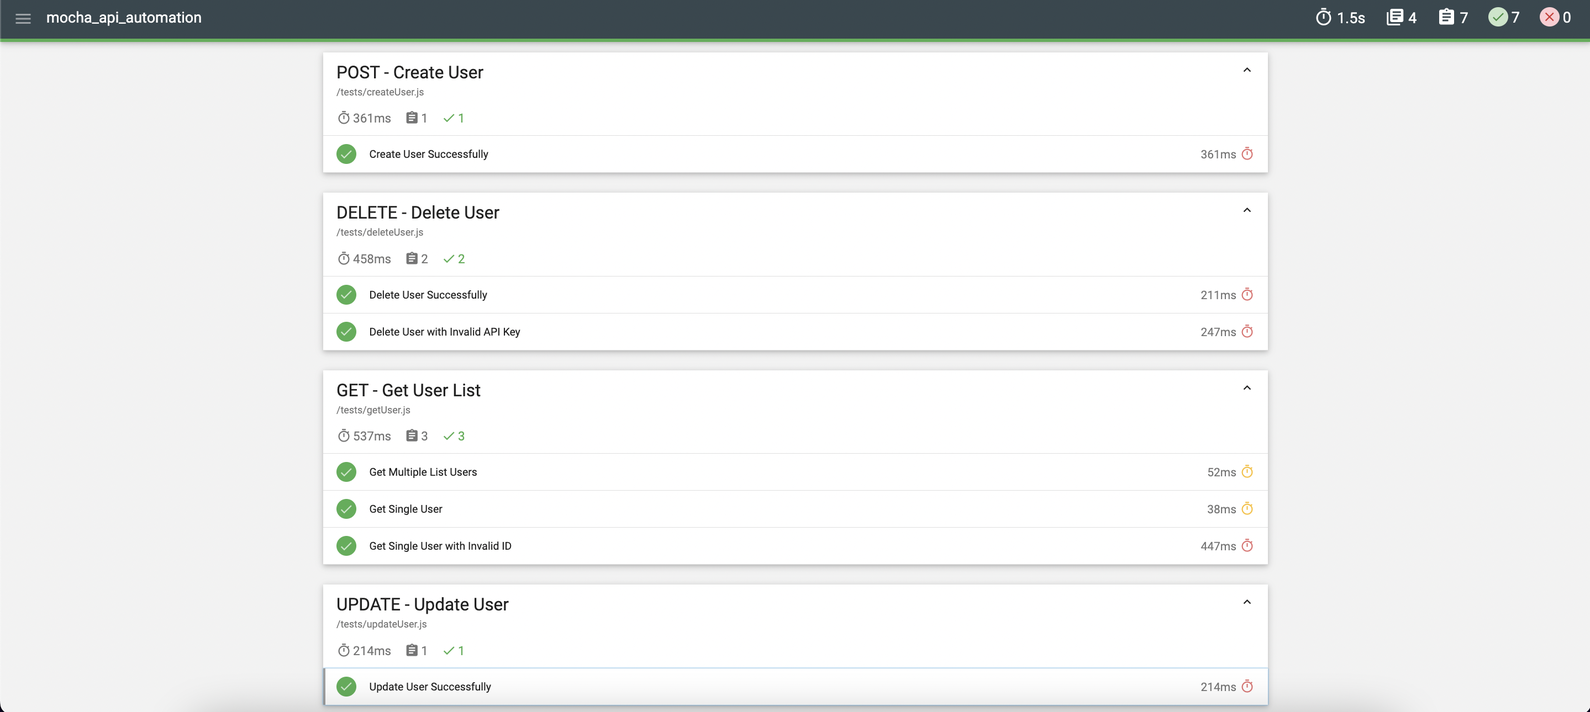
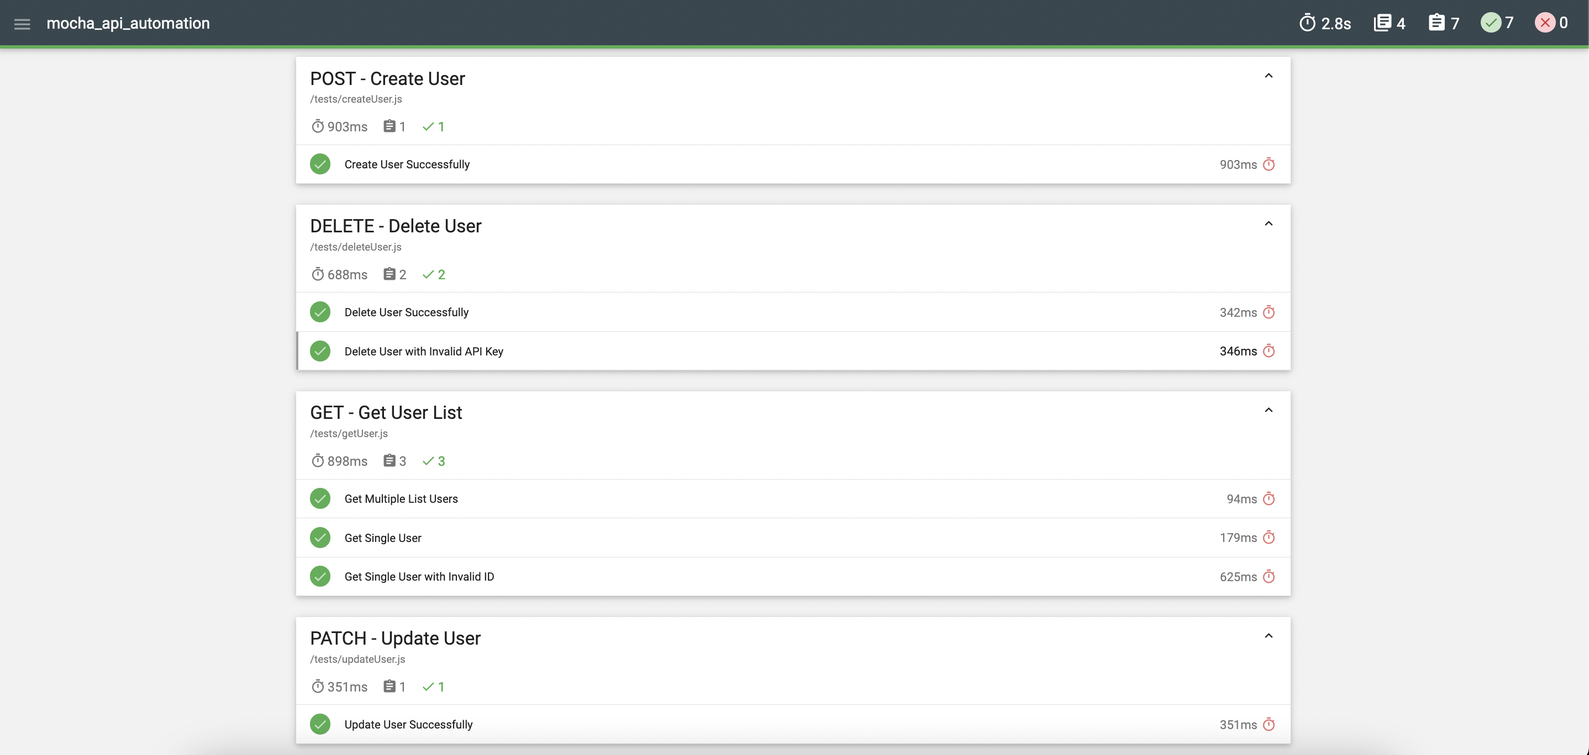
- update API for delete user with invalid API key - update readme - update test report - update package and remove unnecessary details

diff --git a/mochawesome-report/mochawesome.html b/mochawesome-report/mochawesome.html
@@ -1,2 +1,2 @@
 <!doctype html>
-<html lang="en"><head><meta charSet="utf-8"/><meta http-equiv="X-UA-Compatible" content="IE=edge"/><meta name="viewport" content="width=device-width, initial-scale=1"/><title>Mochawesome Report</title><link rel="stylesheet" href="assets/app.css"/></head><body data-raw="{&quot;stats&quot;:{&quot;suites&quot;:4,&quot;tests&quot;:7,&quot;passes&quot;:7,&quot;pending&quot;:0,&quot;failures&quot;:0,&quot;start&quot;:&quot;2025-10-19T15:57:01.951Z&quot;,&quot;end&quot;:&quot;2025-10-19T15:57:03.727Z&quot;,&quot;duration&quot;:1776,&quot;testsRegistered&quot;:7,&quot;passPercent&quot;:100,&quot;pendingPercent&quot;:0,&quot;other&quot;:0,&quot;hasOther&quot;:false,&quot;skipped&quot;:0,&quot;hasSkipped&quot;:false},&quot;results&quot;:[{&quot;uuid&quot;:&quot;c369988c-0455-44b4-a586-014207c7c2b8&quot;,&quot;title&quot;:&quot;&quot;,&quot;fullFile&quot;:&quot;&quot;,&quot;file&quot;:&quot;&quot;,&quot;beforeHooks&quot;:[],&quot;afterHooks&quot;:[],&quot;tests&quot;:[],&quot;suites&quot;:[{&quot;uuid&quot;:&quot;6b47eaae-68be-47e0-a9a2-662c1374efbe&quot;,&quot;title&quot;:&quot;POST - Create User&quot;,&quot;fullFile&quot;:&quot;/Users/elsa.fauzia/Documents/qa_enginner_digial_skola/mocha_api_automation/tests/createUser.js&quot;,&quot;file&quot;:&quot;/tests/createUser.js&quot;,&quot;beforeHooks&quot;:[],&quot;afterHooks&quot;:[],&quot;tests&quot;:[{&quot;title&quot;:&quot;Create User Successfully&quot;,&quot;fullTitle&quot;:&quot;POST - Create User Create User Successfully&quot;,&quot;timedOut&quot;:false,&quot;duration&quot;:342,&quot;state&quot;:&quot;passed&quot;,&quot;speed&quot;:&quot;slow&quot;,&quot;pass&quot;:true,&quot;fail&quot;:false,&quot;pending&quot;:false,&quot;code&quot;:&quot;const requestBody = {\n  name: \&quot;elsa farah\&quot;,\n  job: \&quot;QA\&quot;,\n};\nconst response = await fetch(\&quot;https://reqres.in/api/users\&quot;, {\n  method: \&quot;POST\&quot;,\n  headers: {\n    \&quot;x-api-key\&quot;: \&quot;reqres-free-v1\&quot;,\n    \&quot;Content-Type\&quot;: \&quot;application/json\&quot;,\n  },\n  body: JSON.stringify(requestBody),\n});\nconst responseData = await response.json();\nconsole.log(responseData);\nexpect(response.status).to.equal(201);\nexpect(responseData.name).to.equal(requestBody.name);\nexpect(responseData.job).to.equal(requestBody.job);\nexpect(responseData.id).to.exist;\nexpect(responseData.createdAt).to.not.be.null;&quot;,&quot;err&quot;:{},&quot;uuid&quot;:&quot;b50cb56d-4e17-481c-99c8-d60d1aba2751&quot;,&quot;parentUUID&quot;:&quot;6b47eaae-68be-47e0-a9a2-662c1374efbe&quot;,&quot;isHook&quot;:false,&quot;skipped&quot;:false}],&quot;suites&quot;:[],&quot;passes&quot;:[&quot;b50cb56d-4e17-481c-99c8-d60d1aba2751&quot;],&quot;failures&quot;:[],&quot;pending&quot;:[],&quot;skipped&quot;:[],&quot;duration&quot;:342,&quot;root&quot;:false,&quot;rootEmpty&quot;:false,&quot;_timeout&quot;:2000},{&quot;uuid&quot;:&quot;64b1c316-30df-45d5-8607-9e660ef54049&quot;,&quot;title&quot;:&quot;DELETE - Delete User&quot;,&quot;fullFile&quot;:&quot;/Users/elsa.fauzia/Documents/qa_enginner_digial_skola/mocha_api_automation/tests/deleteUser.js&quot;,&quot;file&quot;:&quot;/tests/deleteUser.js&quot;,&quot;beforeHooks&quot;:[],&quot;afterHooks&quot;:[],&quot;tests&quot;:[{&quot;title&quot;:&quot;Delete User Successfully&quot;,&quot;fullTitle&quot;:&quot;DELETE - Delete User Delete User Successfully&quot;,&quot;timedOut&quot;:false,&quot;duration&quot;:196,&quot;state&quot;:&quot;passed&quot;,&quot;speed&quot;:&quot;slow&quot;,&quot;pass&quot;:true,&quot;fail&quot;:false,&quot;pending&quot;:false,&quot;code&quot;:&quot;const response = await fetch(\&quot;https://reqres.in/api/users/2\&quot;, {\n  method: \&quot;DELETE\&quot;,\n  headers: {\n    \&quot;x-api-key\&quot;: \&quot;reqres-free-v1\&quot;,\n    \&quot;Content-Type\&quot;: \&quot;application/json\&quot;,\n  },\n});\nconsole.log(\&quot;Status Code:\&quot;, response.status);\nexpect(response.status).to.equal(204);&quot;,&quot;err&quot;:{},&quot;uuid&quot;:&quot;9b60c289-9afc-4ce4-a83d-485bc4b73d90&quot;,&quot;parentUUID&quot;:&quot;64b1c316-30df-45d5-8607-9e660ef54049&quot;,&quot;isHook&quot;:false,&quot;skipped&quot;:false},{&quot;title&quot;:&quot;Delete User with Invalid API Key&quot;,&quot;fullTitle&quot;:&quot;DELETE - Delete User Delete User with Invalid API Key&quot;,&quot;timedOut&quot;:false,&quot;duration&quot;:242,&quot;state&quot;:&quot;passed&quot;,&quot;speed&quot;:&quot;slow&quot;,&quot;pass&quot;:true,&quot;fail&quot;:false,&quot;pending&quot;:false,&quot;code&quot;:&quot;const response = await fetch(\&quot;https://reqres.in/api/users/\&quot;, {\n  method: \&quot;DELETE\&quot;,\n  headers: {\n    \&quot;x-api-key\&quot;: \&quot;unkown\&quot;,\n    \&quot;Content-Type\&quot;: \&quot;application/json\&quot;,\n  },\n});\nconsole.log(\&quot;Status Code:\&quot;, response.status);\nexpect(response.status).to.equal(403);&quot;,&quot;err&quot;:{},&quot;uuid&quot;:&quot;36f6f5ad-d35b-4e9e-b531-f2970eda5869&quot;,&quot;parentUUID&quot;:&quot;64b1c316-30df-45d5-8607-9e660ef54049&quot;,&quot;isHook&quot;:false,&quot;skipped&quot;:false}],&quot;suites&quot;:[],&quot;passes&quot;:[&quot;9b60c289-9afc-4ce4-a83d-485bc4b73d90&quot;,&quot;36f6f5ad-d35b-4e9e-b531-f2970eda5869&quot;],&quot;failures&quot;:[],&quot;pending&quot;:[],&quot;skipped&quot;:[],&quot;duration&quot;:438,&quot;root&quot;:false,&quot;rootEmpty&quot;:false,&quot;_timeout&quot;:2000},{&quot;uuid&quot;:&quot;290da177-454f-4dba-8427-4d8b40e79963&quot;,&quot;title&quot;:&quot;GET - Get User List&quot;,&quot;fullFile&quot;:&quot;/Users/elsa.fauzia/Documents/qa_enginner_digial_skola/mocha_api_automation/tests/getUser.js&quot;,&quot;file&quot;:&quot;/tests/getUser.js&quot;,&quot;beforeHooks&quot;:[],&quot;afterHooks&quot;:[],&quot;tests&quot;:[{&quot;title&quot;:&quot;Get Multiple List Users&quot;,&quot;fullTitle&quot;:&quot;GET - Get User List Get Multiple List Users&quot;,&quot;timedOut&quot;:false,&quot;duration&quot;:251,&quot;state&quot;:&quot;passed&quot;,&quot;speed&quot;:&quot;slow&quot;,&quot;pass&quot;:true,&quot;fail&quot;:false,&quot;pending&quot;:false,&quot;code&quot;:&quot;const response = await fetch(\&quot;https://reqres.in/api/users?page=2\&quot;, {\n  headers: {\n    \&quot;x-api-key\&quot;: \&quot;reqres-free-v1\&quot;,\n    \&quot;Content-Type\&quot;: \&quot;application/json\&quot;,\n  },\n});\nconst responseData = await response.json();\nconsole.log(responseData);\nexpect(response.status).to.equal(200);\nexpect(responseData.page).to.equal(2);\nexpect(responseData.per_page).to.equal(6);\nexpect(responseData.total).to.equal(12);\nexpect(responseData.total_pages).to.equal(2);\nresponseData.data.forEach((user) =&gt; {\n  expect(user.id).to.be.a(\&quot;number\&quot;);\n  expect(user.email).to.be.a(\&quot;string\&quot;).and.include(\&quot;@reqres.in\&quot;);\n  expect(user.first_name).to.be.a(\&quot;string\&quot;);\n  expect(user.last_name).to.be.a(\&quot;string\&quot;);\n  expect(user.avatar).to.match(/^https?:\\/\\/[^\\s$.?#].[^\\s]*$/);\n});&quot;,&quot;err&quot;:{},&quot;uuid&quot;:&quot;435b73b2-ac41-4244-867c-e75e31d15866&quot;,&quot;parentUUID&quot;:&quot;290da177-454f-4dba-8427-4d8b40e79963&quot;,&quot;isHook&quot;:false,&quot;skipped&quot;:false},{&quot;title&quot;:&quot;Get Single User&quot;,&quot;fullTitle&quot;:&quot;GET - Get User List Get Single User&quot;,&quot;timedOut&quot;:false,&quot;duration&quot;:44,&quot;state&quot;:&quot;passed&quot;,&quot;speed&quot;:&quot;medium&quot;,&quot;pass&quot;:true,&quot;fail&quot;:false,&quot;pending&quot;:false,&quot;code&quot;:&quot;const response = await fetch(\&quot;https://reqres.in/api/users/2\&quot;, {\n  headers: {\n    \&quot;x-api-key\&quot;: \&quot;reqres-free-v1\&quot;,\n    \&quot;Content-Type\&quot;: \&quot;application/json\&quot;,\n  },\n});\nconst responseData = await response.json();\nconsole.log(responseData);\nexpect(response.status).to.equal(200);\nexpect(responseData.data.email).to.equal(\&quot;janet.weaver@reqres.in\&quot;);\nexpect(responseData.data.first_name).to.equal(\&quot;Janet\&quot;);\nexpect(responseData.data.last_name).to.equal(\&quot;Weaver\&quot;);\nexpect(responseData.data.avatar).to.equal(\n  \&quot;https://reqres.in/img/faces/2-image.jpg\&quot;\n);&quot;,&quot;err&quot;:{},&quot;uuid&quot;:&quot;d08fbeeb-4d34-4a9b-9f16-cc286f5f8399&quot;,&quot;parentUUID&quot;:&quot;290da177-454f-4dba-8427-4d8b40e79963&quot;,&quot;isHook&quot;:false,&quot;skipped&quot;:false},{&quot;title&quot;:&quot;Get Single User with Invalid ID&quot;,&quot;fullTitle&quot;:&quot;GET - Get User List Get Single User with Invalid ID&quot;,&quot;timedOut&quot;:false,&quot;duration&quot;:487,&quot;state&quot;:&quot;passed&quot;,&quot;speed&quot;:&quot;slow&quot;,&quot;pass&quot;:true,&quot;fail&quot;:false,&quot;pending&quot;:false,&quot;code&quot;:&quot;const response = await fetch(\&quot;https://reqres.in/api/users/elsa\&quot;, {\n  headers: {\n    \&quot;x-api-key\&quot;: \&quot;reqres-free-v1\&quot;,\n    \&quot;Content-Type\&quot;: \&quot;application/json\&quot;,\n  },\n});\nconsole.log(\&quot;Status Code:\&quot;, response.status);\nexpect(response.status).to.equal(404);&quot;,&quot;err&quot;:{},&quot;uuid&quot;:&quot;c5a35b99-3884-4f18-9bd0-bb476f716b91&quot;,&quot;parentUUID&quot;:&quot;290da177-454f-4dba-8427-4d8b40e79963&quot;,&quot;isHook&quot;:false,&quot;skipped&quot;:false}],&quot;suites&quot;:[],&quot;passes&quot;:[&quot;435b73b2-ac41-4244-867c-e75e31d15866&quot;,&quot;d08fbeeb-4d34-4a9b-9f16-cc286f5f8399&quot;,&quot;c5a35b99-3884-4f18-9bd0-bb476f716b91&quot;],&quot;failures&quot;:[],&quot;pending&quot;:[],&quot;skipped&quot;:[],&quot;duration&quot;:782,&quot;root&quot;:false,&quot;rootEmpty&quot;:false,&quot;_timeout&quot;:2000},{&quot;uuid&quot;:&quot;a7b5e4a0-021d-43d2-8591-eea1234850b9&quot;,&quot;title&quot;:&quot;UPDATE - Update User&quot;,&quot;fullFile&quot;:&quot;/Users/elsa.fauzia/Documents/qa_enginner_digial_skola/mocha_api_automation/tests/updateUser.js&quot;,&quot;file&quot;:&quot;/tests/updateUser.js&quot;,&quot;beforeHooks&quot;:[],&quot;afterHooks&quot;:[],&quot;tests&quot;:[{&quot;title&quot;:&quot;Update User Successfully&quot;,&quot;fullTitle&quot;:&quot;UPDATE - Update User Update User Successfully&quot;,&quot;timedOut&quot;:false,&quot;duration&quot;:204,&quot;state&quot;:&quot;passed&quot;,&quot;speed&quot;:&quot;slow&quot;,&quot;pass&quot;:true,&quot;fail&quot;:false,&quot;pending&quot;:false,&quot;code&quot;:&quot;const requestBody = {\n  name: \&quot;momo\&quot;,\n  job: \&quot;Software Engineer\&quot;,\n};\nconst response = await fetch(\&quot;https://reqres.in/api/users/2\&quot;, {\n  method: \&quot;PATCH\&quot;,\n  headers: {\n    \&quot;x-api-key\&quot;: \&quot;reqres-free-v1\&quot;,\n    \&quot;Content-Type\&quot;: \&quot;application/json\&quot;,\n  },\n  body: JSON.stringify(requestBody),\n});\nconst responseData = await response.json();\nconsole.log(responseData);\nexpect(response.status).to.equal(200);\nexpect(responseData.name).to.equal(requestBody.name);\nexpect(responseData.job).to.equal(requestBody.job);\nexpect(responseData.updatedAt).to.not.be.null;&quot;,&quot;err&quot;:{},&quot;uuid&quot;:&quot;a21c55b1-4555-45d8-aa81-cd626d9bb6f1&quot;,&quot;parentUUID&quot;:&quot;a7b5e4a0-021d-43d2-8591-eea1234850b9&quot;,&quot;isHook&quot;:false,&quot;skipped&quot;:false}],&quot;suites&quot;:[],&quot;passes&quot;:[&quot;a21c55b1-4555-45d8-aa81-cd626d9bb6f1&quot;],&quot;failures&quot;:[],&quot;pending&quot;:[],&quot;skipped&quot;:[],&quot;duration&quot;:204,&quot;root&quot;:false,&quot;rootEmpty&quot;:false,&quot;_timeout&quot;:2000}],&quot;passes&quot;:[],&quot;failures&quot;:[],&quot;pending&quot;:[],&quot;skipped&quot;:[],&quot;duration&quot;:0,&quot;root&quot;:true,&quot;rootEmpty&quot;:true,&quot;_timeout&quot;:2000}],&quot;meta&quot;:{&quot;mocha&quot;:{&quot;version&quot;:&quot;11.7.4&quot;},&quot;mochawesome&quot;:{&quot;options&quot;:{&quot;quiet&quot;:false,&quot;reportFilename&quot;:&quot;mochawesome&quot;,&quot;saveHtml&quot;:true,&quot;saveJson&quot;:true,&quot;consoleReporter&quot;:&quot;spec&quot;,&quot;useInlineDiffs&quot;:false,&quot;code&quot;:true},&quot;version&quot;:&quot;7.1.4&quot;},&quot;marge&quot;:{&quot;version&quot;:&quot;6.3.0&quot;}}}" data-config="{&quot;reportFilename&quot;:&quot;mochawesome&quot;,&quot;reportDir&quot;:&quot;mochawesome-report&quot;,&quot;reportTitle&quot;:&quot;mocha_api_automation&quot;,&quot;reportPageTitle&quot;:&quot;Mochawesome Report&quot;,&quot;inline&quot;:false,&quot;inlineAssets&quot;:false,&quot;cdn&quot;:false,&quot;charts&quot;:false,&quot;enableCharts&quot;:false,&quot;code&quot;:true,&quot;enableCode&quot;:true,&quot;autoOpen&quot;:false,&quot;overwrite&quot;:true,&quot;timestamp&quot;:false,&quot;ts&quot;:false,&quot;showPassed&quot;:true,&quot;showFailed&quot;:true,&quot;showPending&quot;:true,&quot;showSkipped&quot;:false,&quot;showHooks&quot;:&quot;failed&quot;,&quot;saveJson&quot;:true,&quot;saveHtml&quot;:true,&quot;dev&quot;:false,&quot;assetsDir&quot;:&quot;mochawesome-report/assets&quot;,&quot;jsonFile&quot;:&quot;/Users/elsa.fauzia/Documents/qa_enginner_digial_skola/mocha_api_automation/mochawesome-report/mochawesome.json&quot;,&quot;htmlFile&quot;:&quot;/Users/elsa.fauzia/Documents/qa_enginner_digial_skola/mocha_api_automation/mochawesome-report/mochawesome.html&quot;}"><div id="report"></div><script src="assets/app.js"></script></body></html>
+<html lang="en"><head><meta charSet="utf-8"/><meta http-equiv="X-UA-Compatible" content="IE=edge"/><meta name="viewport" content="width=device-width, initial-scale=1"/><title>Mochawesome Report</title><link rel="stylesheet" href="assets/app.css"/></head><body data-raw="{&quot;stats&quot;:{&quot;suites&quot;:4,&quot;tests&quot;:7,&quot;passes&quot;:7,&quot;pending&quot;:0,&quot;failures&quot;:0,&quot;start&quot;:&quot;2025-10-28T13:36:02.745Z&quot;,&quot;end&quot;:&quot;2025-10-28T13:36:05.597Z&quot;,&quot;duration&quot;:2852,&quot;testsRegistered&quot;:7,&quot;passPercent&quot;:100,&quot;pendingPercent&quot;:0,&quot;other&quot;:0,&quot;hasOther&quot;:false,&quot;skipped&quot;:0,&quot;hasSkipped&quot;:false},&quot;results&quot;:[{&quot;uuid&quot;:&quot;b6d05ee9-d996-48f8-9640-de4bc6f605f7&quot;,&quot;title&quot;:&quot;&quot;,&quot;fullFile&quot;:&quot;&quot;,&quot;file&quot;:&quot;&quot;,&quot;beforeHooks&quot;:[],&quot;afterHooks&quot;:[],&quot;tests&quot;:[],&quot;suites&quot;:[{&quot;uuid&quot;:&quot;8a165c34-88be-4086-9866-9fb6cc1d4f80&quot;,&quot;title&quot;:&quot;POST - Create User&quot;,&quot;fullFile&quot;:&quot;/Users/elsa.fauzia/Documents/qa_enginner_digial_skola/tasks/mocha_api_automation/tests/createUser.js&quot;,&quot;file&quot;:&quot;/tests/createUser.js&quot;,&quot;beforeHooks&quot;:[],&quot;afterHooks&quot;:[],&quot;tests&quot;:[{&quot;title&quot;:&quot;Create User Successfully&quot;,&quot;fullTitle&quot;:&quot;POST - Create User Create User Successfully&quot;,&quot;timedOut&quot;:false,&quot;duration&quot;:903,&quot;state&quot;:&quot;passed&quot;,&quot;speed&quot;:&quot;slow&quot;,&quot;pass&quot;:true,&quot;fail&quot;:false,&quot;pending&quot;:false,&quot;code&quot;:&quot;const requestBody = {\n  name: \&quot;elsa farah\&quot;,\n  job: \&quot;QA\&quot;,\n};\nconst response = await fetch(\&quot;https://reqres.in/api/users\&quot;, {\n  method: \&quot;POST\&quot;,\n  headers: {\n    \&quot;x-api-key\&quot;: \&quot;reqres-free-v1\&quot;,\n    \&quot;Content-Type\&quot;: \&quot;application/json\&quot;,\n  },\n  body: JSON.stringify(requestBody),\n});\nconst responseData = await response.json();\nconsole.log(responseData);\nexpect(response.status).to.equal(201);\nexpect(responseData.name).to.equal(requestBody.name);\nexpect(responseData.job).to.equal(requestBody.job);\nexpect(responseData.id).to.exist;\nexpect(responseData.createdAt).to.not.be.null;&quot;,&quot;err&quot;:{},&quot;uuid&quot;:&quot;497bc46a-cc96-4dca-915f-daf0562873a1&quot;,&quot;parentUUID&quot;:&quot;8a165c34-88be-4086-9866-9fb6cc1d4f80&quot;,&quot;isHook&quot;:false,&quot;skipped&quot;:false}],&quot;suites&quot;:[],&quot;passes&quot;:[&quot;497bc46a-cc96-4dca-915f-daf0562873a1&quot;],&quot;failures&quot;:[],&quot;pending&quot;:[],&quot;skipped&quot;:[],&quot;duration&quot;:903,&quot;root&quot;:false,&quot;rootEmpty&quot;:false,&quot;_timeout&quot;:2000},{&quot;uuid&quot;:&quot;1634366c-37c7-4621-af39-faff98dc4f43&quot;,&quot;title&quot;:&quot;DELETE - Delete User&quot;,&quot;fullFile&quot;:&quot;/Users/elsa.fauzia/Documents/qa_enginner_digial_skola/tasks/mocha_api_automation/tests/deleteUser.js&quot;,&quot;file&quot;:&quot;/tests/deleteUser.js&quot;,&quot;beforeHooks&quot;:[],&quot;afterHooks&quot;:[],&quot;tests&quot;:[{&quot;title&quot;:&quot;Delete User Successfully&quot;,&quot;fullTitle&quot;:&quot;DELETE - Delete User Delete User Successfully&quot;,&quot;timedOut&quot;:false,&quot;duration&quot;:342,&quot;state&quot;:&quot;passed&quot;,&quot;speed&quot;:&quot;slow&quot;,&quot;pass&quot;:true,&quot;fail&quot;:false,&quot;pending&quot;:false,&quot;code&quot;:&quot;const response = await fetch(\&quot;https://reqres.in/api/users/2\&quot;, {\n  method: \&quot;DELETE\&quot;,\n  headers: {\n    \&quot;x-api-key\&quot;: \&quot;reqres-free-v1\&quot;,\n    \&quot;Content-Type\&quot;: \&quot;application/json\&quot;,\n  },\n});\nconsole.log(\&quot;Status Code:\&quot;, response.status);\nexpect(response.status).to.equal(204);&quot;,&quot;err&quot;:{},&quot;uuid&quot;:&quot;ebff0051-d4cc-4284-8dc8-f8eb1b93e601&quot;,&quot;parentUUID&quot;:&quot;1634366c-37c7-4621-af39-faff98dc4f43&quot;,&quot;isHook&quot;:false,&quot;skipped&quot;:false},{&quot;title&quot;:&quot;Delete User with Invalid API Key&quot;,&quot;fullTitle&quot;:&quot;DELETE - Delete User Delete User with Invalid API Key&quot;,&quot;timedOut&quot;:false,&quot;duration&quot;:346,&quot;state&quot;:&quot;passed&quot;,&quot;speed&quot;:&quot;slow&quot;,&quot;pass&quot;:true,&quot;fail&quot;:false,&quot;pending&quot;:false,&quot;code&quot;:&quot;const response = await fetch(\&quot;https://reqres.in/api/users\&quot;, {\n  method: \&quot;DELETE\&quot;,\n  headers: {\n    \&quot;x-api-key\&quot;: \&quot;unkown\&quot;,\n    \&quot;Content-Type\&quot;: \&quot;application/json\&quot;,\n  },\n});\nconsole.log(\&quot;Status Code:\&quot;, response.status);\nexpect(response.status).to.equal(403);&quot;,&quot;err&quot;:{},&quot;uuid&quot;:&quot;d39d8e13-0c14-4f88-a84b-861cd0aa9c76&quot;,&quot;parentUUID&quot;:&quot;1634366c-37c7-4621-af39-faff98dc4f43&quot;,&quot;isHook&quot;:false,&quot;skipped&quot;:false}],&quot;suites&quot;:[],&quot;passes&quot;:[&quot;ebff0051-d4cc-4284-8dc8-f8eb1b93e601&quot;,&quot;d39d8e13-0c14-4f88-a84b-861cd0aa9c76&quot;],&quot;failures&quot;:[],&quot;pending&quot;:[],&quot;skipped&quot;:[],&quot;duration&quot;:688,&quot;root&quot;:false,&quot;rootEmpty&quot;:false,&quot;_timeout&quot;:2000},{&quot;uuid&quot;:&quot;996badd6-25db-4f9b-9c2c-ab8fd15b743c&quot;,&quot;title&quot;:&quot;GET - Get User List&quot;,&quot;fullFile&quot;:&quot;/Users/elsa.fauzia/Documents/qa_enginner_digial_skola/tasks/mocha_api_automation/tests/getUser.js&quot;,&quot;file&quot;:&quot;/tests/getUser.js&quot;,&quot;beforeHooks&quot;:[],&quot;afterHooks&quot;:[],&quot;tests&quot;:[{&quot;title&quot;:&quot;Get Multiple List Users&quot;,&quot;fullTitle&quot;:&quot;GET - Get User List Get Multiple List Users&quot;,&quot;timedOut&quot;:false,&quot;duration&quot;:94,&quot;state&quot;:&quot;passed&quot;,&quot;speed&quot;:&quot;slow&quot;,&quot;pass&quot;:true,&quot;fail&quot;:false,&quot;pending&quot;:false,&quot;code&quot;:&quot;const response = await fetch(\&quot;https://reqres.in/api/users?page=2\&quot;, {\n  headers: {\n    \&quot;x-api-key\&quot;: \&quot;reqres-free-v1\&quot;,\n    \&quot;Content-Type\&quot;: \&quot;application/json\&quot;,\n  },\n});\nconst responseData = await response.json();\nconsole.log(responseData);\nexpect(response.status).to.equal(200);\nexpect(responseData.page).to.equal(2);\nexpect(responseData.per_page).to.equal(6);\nexpect(responseData.total).to.equal(12);\nexpect(responseData.total_pages).to.equal(2);\nresponseData.data.forEach((user) =&gt; {\n  expect(user.id).to.be.a(\&quot;number\&quot;);\n  expect(user.email).to.be.a(\&quot;string\&quot;).and.include(\&quot;@reqres.in\&quot;);\n  expect(user.first_name).to.be.a(\&quot;string\&quot;);\n  expect(user.last_name).to.be.a(\&quot;string\&quot;);\n  expect(user.avatar).to.match(/^https?:\\/\\/[^\\s$.?#].[^\\s]*$/);\n});&quot;,&quot;err&quot;:{},&quot;uuid&quot;:&quot;00835f7d-60fd-4bf5-8800-7b7959c8466e&quot;,&quot;parentUUID&quot;:&quot;996badd6-25db-4f9b-9c2c-ab8fd15b743c&quot;,&quot;isHook&quot;:false,&quot;skipped&quot;:false},{&quot;title&quot;:&quot;Get Single User&quot;,&quot;fullTitle&quot;:&quot;GET - Get User List Get Single User&quot;,&quot;timedOut&quot;:false,&quot;duration&quot;:179,&quot;state&quot;:&quot;passed&quot;,&quot;speed&quot;:&quot;slow&quot;,&quot;pass&quot;:true,&quot;fail&quot;:false,&quot;pending&quot;:false,&quot;code&quot;:&quot;const response = await fetch(\&quot;https://reqres.in/api/users/2\&quot;, {\n  headers: {\n    \&quot;x-api-key\&quot;: \&quot;reqres-free-v1\&quot;,\n    \&quot;Content-Type\&quot;: \&quot;application/json\&quot;,\n  },\n});\nconst responseData = await response.json();\nconsole.log(responseData);\nexpect(response.status).to.equal(200);\nexpect(responseData.data.email).to.equal(\&quot;janet.weaver@reqres.in\&quot;);\nexpect(responseData.data.first_name).to.equal(\&quot;Janet\&quot;);\nexpect(responseData.data.last_name).to.equal(\&quot;Weaver\&quot;);\nexpect(responseData.data.avatar).to.equal(\n  \&quot;https://reqres.in/img/faces/2-image.jpg\&quot;\n);&quot;,&quot;err&quot;:{},&quot;uuid&quot;:&quot;5016b0a0-c73c-4445-9717-cf2f7c1e0f7c&quot;,&quot;parentUUID&quot;:&quot;996badd6-25db-4f9b-9c2c-ab8fd15b743c&quot;,&quot;isHook&quot;:false,&quot;skipped&quot;:false},{&quot;title&quot;:&quot;Get Single User with Invalid ID&quot;,&quot;fullTitle&quot;:&quot;GET - Get User List Get Single User with Invalid ID&quot;,&quot;timedOut&quot;:false,&quot;duration&quot;:625,&quot;state&quot;:&quot;passed&quot;,&quot;speed&quot;:&quot;slow&quot;,&quot;pass&quot;:true,&quot;fail&quot;:false,&quot;pending&quot;:false,&quot;code&quot;:&quot;const response = await fetch(\&quot;https://reqres.in/api/users/elsa\&quot;, {\n  headers: {\n    \&quot;x-api-key\&quot;: \&quot;reqres-free-v1\&quot;,\n    \&quot;Content-Type\&quot;: \&quot;application/json\&quot;,\n  },\n});\nconsole.log(\&quot;Status Code:\&quot;, response.status);\nexpect(response.status).to.equal(404);&quot;,&quot;err&quot;:{},&quot;uuid&quot;:&quot;cc8bafb8-56b6-4feb-9b2e-7fce3692fba9&quot;,&quot;parentUUID&quot;:&quot;996badd6-25db-4f9b-9c2c-ab8fd15b743c&quot;,&quot;isHook&quot;:false,&quot;skipped&quot;:false}],&quot;suites&quot;:[],&quot;passes&quot;:[&quot;00835f7d-60fd-4bf5-8800-7b7959c8466e&quot;,&quot;5016b0a0-c73c-4445-9717-cf2f7c1e0f7c&quot;,&quot;cc8bafb8-56b6-4feb-9b2e-7fce3692fba9&quot;],&quot;failures&quot;:[],&quot;pending&quot;:[],&quot;skipped&quot;:[],&quot;duration&quot;:898,&quot;root&quot;:false,&quot;rootEmpty&quot;:false,&quot;_timeout&quot;:2000},{&quot;uuid&quot;:&quot;c63844c4-01cf-4ac5-b748-4383eb8afc5f&quot;,&quot;title&quot;:&quot;PATCH - Update User&quot;,&quot;fullFile&quot;:&quot;/Users/elsa.fauzia/Documents/qa_enginner_digial_skola/tasks/mocha_api_automation/tests/updateUser.js&quot;,&quot;file&quot;:&quot;/tests/updateUser.js&quot;,&quot;beforeHooks&quot;:[],&quot;afterHooks&quot;:[],&quot;tests&quot;:[{&quot;title&quot;:&quot;Update User Successfully&quot;,&quot;fullTitle&quot;:&quot;PATCH - Update User Update User Successfully&quot;,&quot;timedOut&quot;:false,&quot;duration&quot;:351,&quot;state&quot;:&quot;passed&quot;,&quot;speed&quot;:&quot;slow&quot;,&quot;pass&quot;:true,&quot;fail&quot;:false,&quot;pending&quot;:false,&quot;code&quot;:&quot;const requestBody = {\n  name: \&quot;momo\&quot;,\n  job: \&quot;Software Engineer\&quot;,\n};\nconst response = await fetch(\&quot;https://reqres.in/api/users/2\&quot;, {\n  method: \&quot;PATCH\&quot;,\n  headers: {\n    \&quot;x-api-key\&quot;: \&quot;reqres-free-v1\&quot;,\n    \&quot;Content-Type\&quot;: \&quot;application/json\&quot;,\n  },\n  body: JSON.stringify(requestBody),\n});\nconst responseData = await response.json();\nconsole.log(responseData);\nexpect(response.status).to.equal(200);\nexpect(responseData.name).to.equal(requestBody.name);\nexpect(responseData.job).to.equal(requestBody.job);\nexpect(responseData.updatedAt).to.not.be.null;&quot;,&quot;err&quot;:{},&quot;uuid&quot;:&quot;cbc37f87-d25a-4c2b-bf1f-0fa6797bacb6&quot;,&quot;parentUUID&quot;:&quot;c63844c4-01cf-4ac5-b748-4383eb8afc5f&quot;,&quot;isHook&quot;:false,&quot;skipped&quot;:false}],&quot;suites&quot;:[],&quot;passes&quot;:[&quot;cbc37f87-d25a-4c2b-bf1f-0fa6797bacb6&quot;],&quot;failures&quot;:[],&quot;pending&quot;:[],&quot;skipped&quot;:[],&quot;duration&quot;:351,&quot;root&quot;:false,&quot;rootEmpty&quot;:false,&quot;_timeout&quot;:2000}],&quot;passes&quot;:[],&quot;failures&quot;:[],&quot;pending&quot;:[],&quot;skipped&quot;:[],&quot;duration&quot;:0,&quot;root&quot;:true,&quot;rootEmpty&quot;:true,&quot;_timeout&quot;:2000}],&quot;meta&quot;:{&quot;mocha&quot;:{&quot;version&quot;:&quot;11.7.4&quot;},&quot;mochawesome&quot;:{&quot;options&quot;:{&quot;quiet&quot;:false,&quot;reportFilename&quot;:&quot;mochawesome&quot;,&quot;saveHtml&quot;:true,&quot;saveJson&quot;:true,&quot;consoleReporter&quot;:&quot;spec&quot;,&quot;useInlineDiffs&quot;:false,&quot;code&quot;:true},&quot;version&quot;:&quot;7.1.4&quot;},&quot;marge&quot;:{&quot;version&quot;:&quot;6.3.0&quot;}}}" data-config="{&quot;reportFilename&quot;:&quot;mochawesome&quot;,&quot;reportDir&quot;:&quot;mochawesome-report&quot;,&quot;reportTitle&quot;:&quot;mocha_api_automation&quot;,&quot;reportPageTitle&quot;:&quot;Mochawesome Report&quot;,&quot;inline&quot;:false,&quot;inlineAssets&quot;:false,&quot;cdn&quot;:false,&quot;charts&quot;:false,&quot;enableCharts&quot;:false,&quot;code&quot;:true,&quot;enableCode&quot;:true,&quot;autoOpen&quot;:false,&quot;overwrite&quot;:true,&quot;timestamp&quot;:false,&quot;ts&quot;:false,&quot;showPassed&quot;:true,&quot;showFailed&quot;:true,&quot;showPending&quot;:true,&quot;showSkipped&quot;:false,&quot;showHooks&quot;:&quot;failed&quot;,&quot;saveJson&quot;:true,&quot;saveHtml&quot;:true,&quot;dev&quot;:false,&quot;assetsDir&quot;:&quot;mochawesome-report/assets&quot;,&quot;jsonFile&quot;:&quot;/Users/elsa.fauzia/Documents/qa_enginner_digial_skola/tasks/mocha_api_automation/mochawesome-report/mochawesome.json&quot;,&quot;htmlFile&quot;:&quot;/Users/elsa.fauzia/Documents/qa_enginner_digial_skola/tasks/mocha_api_automation/mochawesome-report/mochawesome.html&quot;}"><div id="report"></div><script src="assets/app.js"></script></body></html>

diff --git a/tests/deleteUser.js b/tests/deleteUser.js
@@ -15,7 +15,7 @@ describe("DELETE - Delete User", () => {
   });
 
   it("Delete User with Invalid API Key", async () => {
-    const response = await fetch("https://reqres.in/api/users/", {
+    const response = await fetch("https://reqres.in/api/users", {
       method: "DELETE",
       headers: {
         "x-api-key": "unkown",

diff --git a/README.md b/README.md
@@ -34,14 +34,14 @@ mocha_api_automation/
 
 ## ⚙ Tech Stack
 
-| Tool            | Purpose                                  |
-| :-------------- | :--------------------------------------- |
-| **JavaScript**  | Test scripting language                  |
-| **Mocha**       | Test framework for Node.js               |
-| **Chai**        | BDD assertion library                    |
-| **Mochawesome** | Professional HTML & JSON reporting       |
-| **Node.js**     | JavaScript runtime environment           |
-| **ReqRes API**  | RESTful API service for testing          |
+| Tool            | Purpose                            |
+| :-------------- | :--------------------------------- |
+| **JavaScript**  | Test scripting language            |
+| **Mocha**       | Test framework for Node.js         |
+| **Chai**        | BDD assertion library              |
+| **Mochawesome** | Professional HTML & JSON reporting |
+| **Node.js**     | JavaScript runtime environment     |
+| **ReqRes API**  | RESTful API service for testing    |
 
 ## 🚀 How to Run the Tests
 
@@ -84,15 +84,15 @@ npm run tests:deleteUser
 
 **7 tests passed - 100% success rate**
 
-| Method | Test Case          | Endpoint            | Status |
-| :----- | :----------------- | :------------------ | :----- |
+| Method | Test Case          | Endpoint            | Status  |
+| :----- | :----------------- | :------------------ | :------ |
 | POST   | Create User        | `/api/users`        | ✅ PASS |
 | GET    | Get Multiple Users | `/api/users?page=2` | ✅ PASS |
 | GET    | Get Single User    | `/api/users/2`      | ✅ PASS |
 | GET    | Invalid User ID    | `/api/users/elsa`   | ✅ PASS |
 | PATCH  | Update User        | `/api/users/2`      | ✅ PASS |
 | DELETE | Delete User        | `/api/users/2`      | ✅ PASS |
-| DELETE | Invalid API Key    | `/api/users/`       | ✅ PASS |
+| DELETE | Invalid API Key    | `/api/users`        | ✅ PASS |
 
 ## 📈 Test Report Screenshot
 
